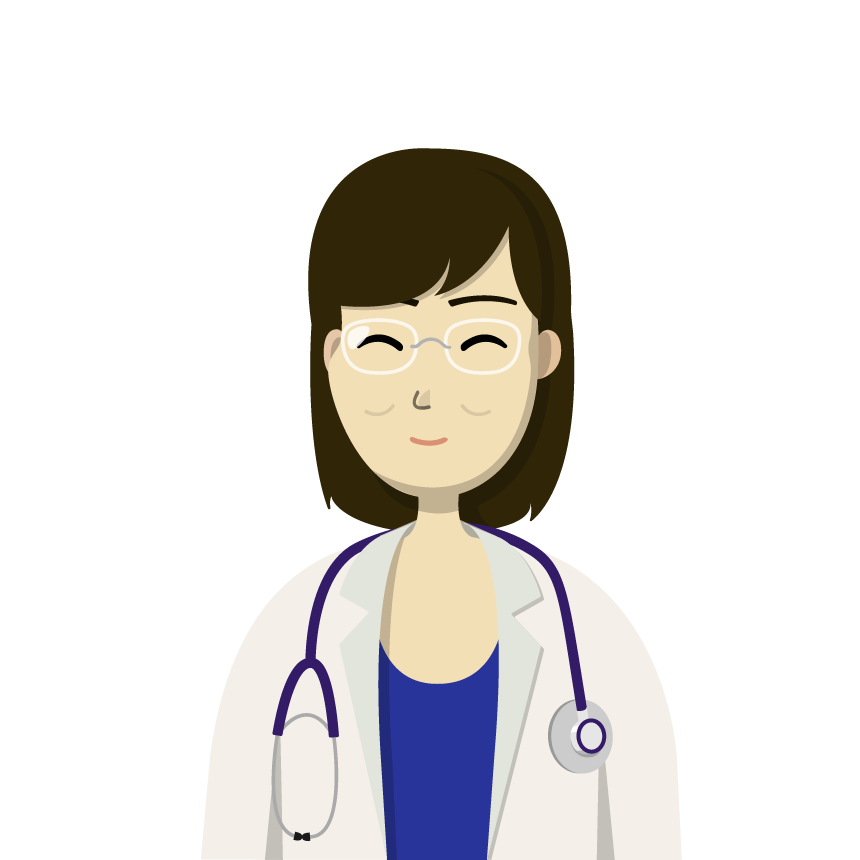
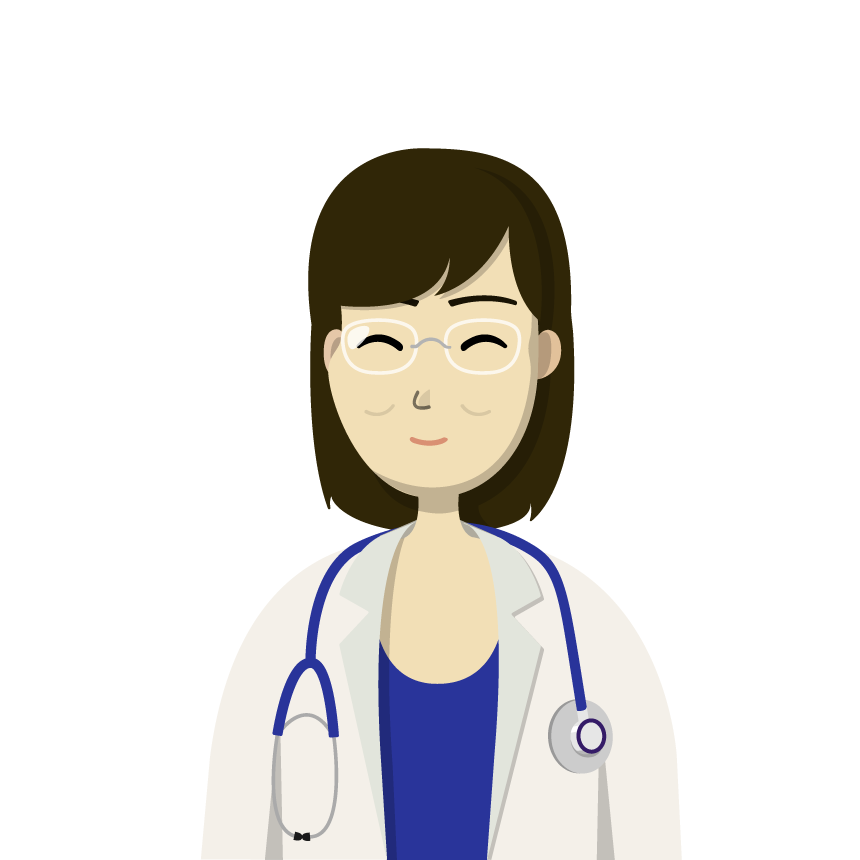
change color

diff --git a/index.html b/index.html
@@ -107,7 +107,7 @@
           </div>
         </div>
         <div class="circle-wrapper col-md-6">
-          <div class="circle" style="background-color: #F9955F">
+          <div class="circle" style="background-color: #F2AE64">
             <img src="doctor_kuwama.png" style="height: 100%; position: absolute; top: 0; width: 100%;"/>
           </div>
         </div>
